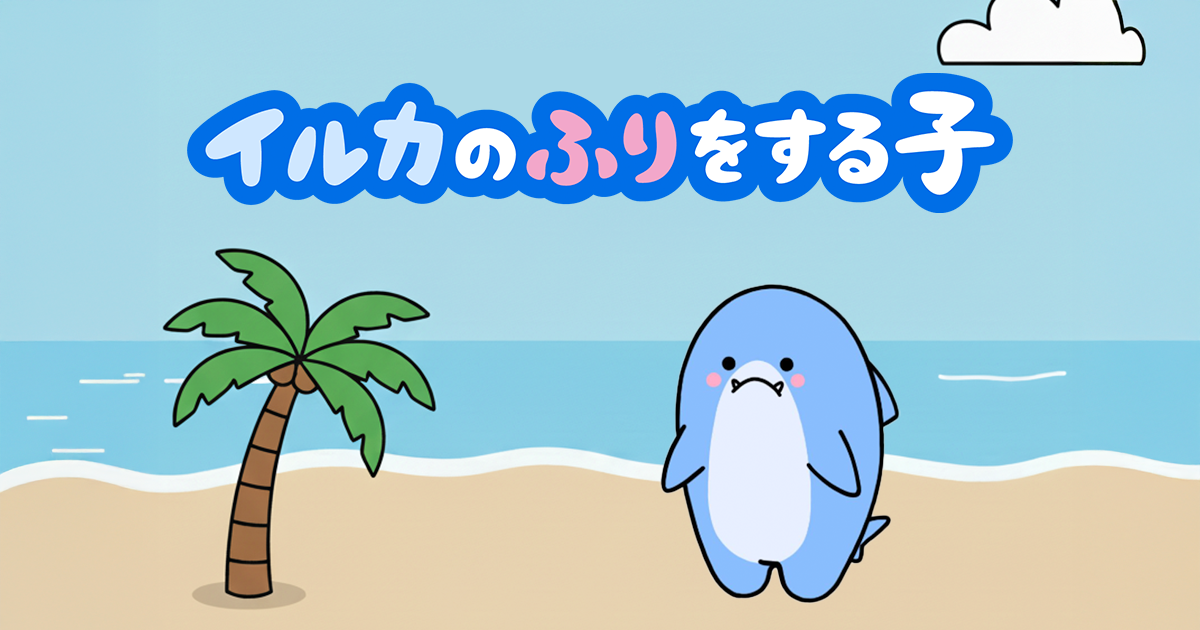
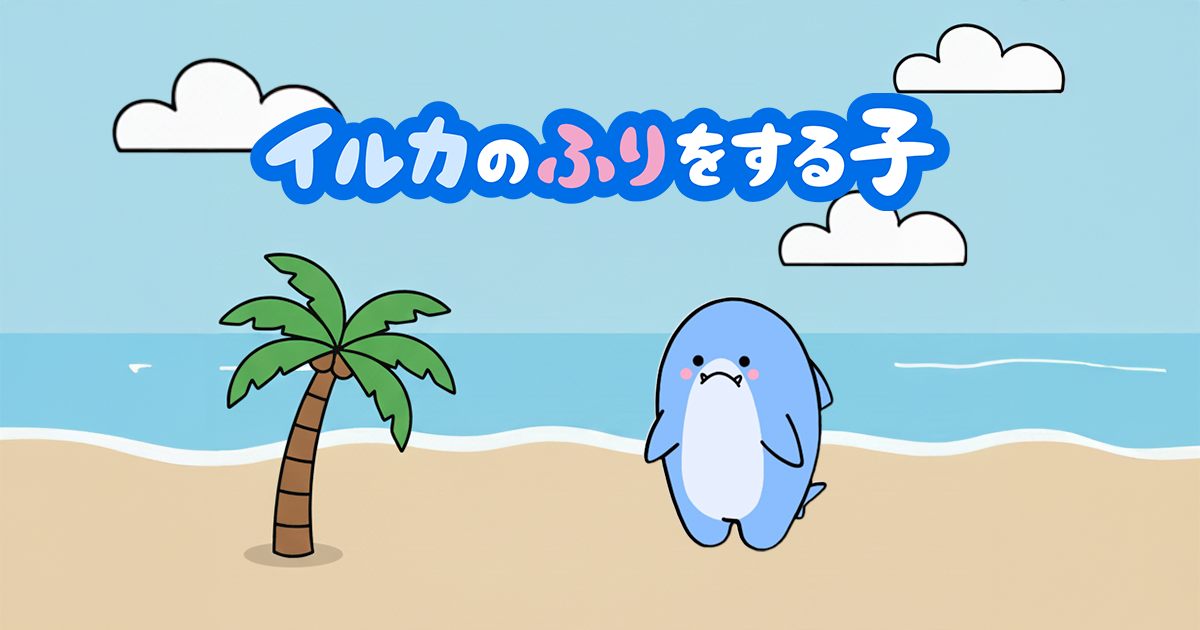
Add files via upload

Changed region(s): [[0.0, 0.3921, 1.0, 0.9651], [0.0925, 0.0, 0.9558, 0.4222]]

diff --git a/index.html b/index.html
@@ -12,35 +12,40 @@
 <link href="https://fonts.googleapis.com/css2?family=M+PLUS+Rounded+1c:wght@400;700;800;900&display=swap" rel="stylesheet">
 <style>
 :root{
-  --theme:#2A70C9;     /* 濃いめ水色（文字） */
-  --soft:#E6F5FF;      /* 薄い水色（ベタ背景） */
-  --card:#ffffff;
+  --fv-zoom: 100%;
+  --band:#d0e6ffff;     /* ご指定の濃いめの水色 */
+  --theme:#2A70C9;      /* 文字色（濃いめ水色系） */
+  --soft:#E8F6FF;       /* 上部の薄い水色 */
+  --card:#fff;
 }
+*{box-sizing:border-box}
 html,body{margin:0}
 body{
   font-family:'M PLUS Rounded 1c', -apple-system,BlinkMacSystemFont,'Helvetica Neue',Arial,'Noto Sans JP',sans-serif;
   background:var(--soft);
-  color:#284059;
+  color:#203246;
 }
 
 /* ===== First View ===== */
-.fv{min-height:100svh; position:relative; overflow:hidden; display:grid; place-items:center;}
-.fv .fv-bg{position:absolute; inset:0; width:100%; height:100%; object-fit:cover; object-position:center;}
-.fv-fade{position:absolute; inset:auto 0 0 0; height:22vh; background:linear-gradient(to bottom, rgba(230,245,255,0) 0%, var(--soft) 85%);}
-.fv-inner{position:relative; z-index:1;}
-.logo{width:min(86vw,560px); height:auto; filter:drop-shadow(0 4px 0 rgba(0,0,0,.12));}
+.fv{
+  min-height: 100svh;
+  position: relative;
+  overflow: hidden;
+  display: grid;
+  place-items: center;
+  background: url('assets/PPG.png') center / var(--fv-zoom) no-repeat;
+}
+.fv-fade{position:absolute; inset:auto 0 0 0; height:20vh; background:linear-gradient(to bottom, rgba(232,246,255,0) 0%, var(--soft) 85%);}
 
-/* ===== main sections ===== */
+/* ===== main ===== */
 .container{max-width:1080px; margin:0 auto; padding:0 20px;}
 .section{padding:48px 0;}
 
-/* Profile text */
+/* Profile */
 .profile{text-align:center; color:var(--theme);}
 .profile h2{margin:0 0 14px; font-size:clamp(22px,3vw,34px); font-weight:900;}
-.profile p{margin:8px 0; font-size:clamp(15px,1.9vw,20px); font-weight:700; letter-spacing:.02em; line-height:1.9;}
+.profile p{margin:10px 0; font-size:clamp(15px,1.9vw,20px); font-weight:700; letter-spacing:.02em; line-height:1.9;}
 .profile .space{height:16px;}
-
-/* Mini profile pills — smaller */
 .pill-list{display:flex; flex-direction:column; gap:16px; margin-top:8px;}
 .pill{
   background:var(--card);
@@ -54,7 +59,11 @@ body{
   font-size:clamp(16px,1.7vw,20px);
 }
 
-/* SNS cards */
+/* ===== Band (below クセ...) ===== */
+.band{width:100%; background:var(--band);}
+.band .section{padding:56px 0;}
+
+/* SNS */
 .sns h3{text-align:center; color:#1e69c0; margin:0 0 6px; font-size:clamp(18px,2.2vw,22px); font-weight:900;}
 .sns-note{text-align:center; color:#6b86ad; font-size:13px; margin-bottom:16px;}
 .sns-grid{display:grid; grid-template-columns:repeat(3, minmax(220px,1fr)); gap:18px;}
@@ -65,8 +74,8 @@ body{
 
 /* Contact */
 .contact{text-align:center;}
-.contact .box{display:inline-block; background:#fff; border-radius:16px; box-shadow:0 10px 24px rgba(0,0,0,.08); padding:18px 22px;}
-.contact a{display:inline-block; margin-top:8px; background:var(--theme); color:#fff; text-decoration:none; border-radius:999px; padding:10px 18px; font-weight:800; box-shadow:0 6px 16px rgba(0,0,0,.16);}
+.contact .box{display:inline-block; background:#fff; border-radius:16px; box-shadow:0 10px 24px rgba(0,0,0,.08); padding:20px 24px;}
+.contact a{display:inline-block; margin-top:10px; background:var(--theme); color:#fff; text-decoration:none; border-radius:999px; padding:10px 18px; font-weight:800; box-shadow:0 6px 16px rgba(0,0,0,.16);}
 
 /* Footer */
 .footer{text-align:center; color:#354d6e; padding:32px 0; font-size:13px;}
@@ -78,65 +87,68 @@ body{
 
 <!-- First View -->
 <section class="fv" aria-label="ファーストビュー">
-  <img class="fv-bg" src="assets/PPG.png" alt="背景" />
-  <div class="fv-inner">
-    <img class="logo" src="assets/logo.png" alt="イルカのふりをする子 ロゴ" />
-  </div>
   <div class="fv-fade" aria-hidden="true"></div>
 </section>
 
-<main class="container">
-  <!-- Profile -->
-  <section class="section profile" id="profile">
-    <h2>イルカのふりをする子って？</h2>
-    <p>本当はサメだけど、やさしいイルカになりたくて“フリ”してます。</p>
-    <p>ふわふわ水色ボディに小さな牙と背びれが、<br>ほんの少しだけ本性をのぞかせる…？</p>
-    <p>気配り上手で空回りもしがち。</p>
-    <p>でも豆腐が好きで、尾びれをフリフリごまかす、</p>
-    <p>不器用で愛しい存在です。</p>
-    <div class="space"></div>
-    <div class="pill-list">
-      <div class="pill"><b>大好き</b>：豆腐</div>
-      <div class="pill"><b>性格</b>：がんばり屋／気配り上手（でも空回りしがち...）</div>
-      <div class="pill"><b>特長</b>：歯はぎこちない八重歯</div>
-      <div class="pill"><b>日常</b>：イルカのみんなに、サメと疑われないように普段は牙を隠しているよ！</div>
-      <div class="pill"><b>クセ</b>：ドキッとすると、無意識に尾びれをフリフリしてごまかしちゃうの...</div>
-    </div>
-  </section>
+<main>
+  <div class="container">
+    <!-- Profile -->
+    <section class="section profile" id="profile">
+      <h2>イルカのふりをする子って？</h2>
+      <p>本当はサメだけど、やさしいイルカになりたくて“フリ”してます。</p>
+      <p>ふわふわ水色ボディに小さな牙と背びれが、<br>ほんの少しだけ本性をのぞかせる…？</p>
+      <p>気配り上手で空回りもしがち。</p>
+      <p>でも豆腐が好きで、尾びれをフリフリごまかす、</p>
+      <p>不器用で愛しい存在です。</p>
+      <div class="space"></div>
+      <div class="pill-list">
+        <div class="pill"><b>大好き</b>：豆腐</div>
+        <div class="pill"><b>性格</b>：がんばり屋／気配り上手（でも空回りしがち...）</div>
+        <div class="pill"><b>特長</b>：歯はぎこちない八重歯</div>
+        <div class="pill"><b>日常</b>：イルカのみんなに、サメと疑われないように普段は牙を隠しているよ！</div>
+        <div class="pill"><b>クセ</b>：ドキッとすると、無意識に尾びれをフリフリしてごまかしちゃうの...</div>
+      </div>
+    </section>
+  </div>
 
-  <!-- SNS -->
-  <section class="section sns" id="sns">
-    <h3>公式SNS</h3>
-    <p class="sns-note">たくさんコメントしてくれると嬉しいの〜！</p>
-    <div class="sns-grid">
-      <a class="sns-card" href="https://www.tiktok.com/@irukanofuriwosurusame" target="_blank" rel="noopener" aria-label="TikTok">
-        <svg class="sns-logo" viewBox="0 0 64 64" xmlns="http://www.w3.org/2000/svg" role="img"><circle cx="32" cy="32" r="32" fill="#000"/><path d="M41 24.5c2.5 1.9 5 2.9 7.6 3v6.1c-3.2-.2-6.1-1.3-8.8-3.3v9.4c0 6.6-5.4 11.3-12 11.3-3 0-5.8-1-7.9-2.8a10 10 0 0 1 8.6-17c1 0 2 .2 3 .5v6.4a4.5 4.5 0 0 0-3-.9 4.7 4.7 0 0 0-4.6 4.8c0 2.7 2.1 4.7 5 4.7a5.6 5.6 0 0 0 5.8-5.6V12h6.3c.4 4.9 2.8 9 7 12.5z" fill="#fff"/></svg>
-        <div class="sns-title">TikTok</div>
-      </a>
-      <a class="sns-card" href="https://www.youtube.com/@%E3%82%A4%E3%83%AB%E3%82%AB%E3%81%AE%E3%83%95%E3%83%AA%E3%82%92%E3%81%99%E3%82%8B%E5%AD%90" target="_blank" rel="noopener" aria-label="YouTube">
-        <svg class="sns-logo" viewBox="0 0 64 64" xmlns="http://www.w3.org/2000/svg" role="img"><rect x="6" y="14" width="52" height="36" rx="10" fill="#FF0000"/><polygon points="28,22 28,42 46,32" fill="#fff"/></svg>
-        <div class="sns-title">YouTube</div>
-      </a>
-      <a class="sns-card" href="https://www.instagram.com/irukanofuriwosurusame/" target="_blank" rel="noopener" aria-label="Instagram">
-        <svg class="sns-logo" viewBox="0 0 64 64" xmlns="http://www.w3.org/2000/svg" role="img">
-          <defs><linearGradient id="igG" x1="0" x2="1" y1="1" y2="0"><stop offset="0" stop-color="#FEDA75"/><stop offset="0.3" stop-color="#D62976"/><stop offset="0.6" stop-color="#962FBF"/><stop offset="1" stop-color="#4F5BD5"/></linearGradient></defs>
-          <rect x="6" y="6" width="52" height="52" rx="14" fill="url(#igG)"/><circle cx="32" cy="32" r="12" fill="none" stroke="#fff" stroke-width="6"/><circle cx="44" cy="20" r="4" fill="#fff"/>
-        </svg>
-        <div class="sns-title">Instagram</div>
-      </a>
-    </div>
-  </section>
+  <!-- Everything below here is the deeper blue band -->
+  <div class="band">
+    <div class="container">
+      <!-- SNS -->
+      <section class="section sns" id="sns">
+        <h3>公式SNS</h3>
+        <p class="sns-note">たくさんコメントしてくれると嬉しいの〜！</p>
+        <div class="sns-grid">
+          <a class="sns-card" href="https://www.tiktok.com/@irukanofuriwosurusame" target="_blank" rel="noopener" aria-label="TikTok">
+            <svg class="sns-logo" viewBox="0 0 64 64" xmlns="http://www.w3.org/2000/svg" role="img"><circle cx="32" cy="32" r="32" fill="#000"/><path d="M41 24.5c2.5 1.9 5 2.9 7.6 3v6.1c-3.2-.2-6.1-1.3-8.8-3.3v9.4c0 6.6-5.4 11.3-12 11.3-3 0-5.8-1-7.9-2.8a10 10 0 0 1 8.6-17c1 0 2 .2 3 .5v6.4a4.5 4.5 0 0 0-3-.9 4.7 4.7 0 0 0-4.6 4.8c0 2.7 2.1 4.7 5 4.7a5.6 5.6 0 0 0 5.8-5.6V12h6.3c.4 4.9 2.8 9 7 12.5z" fill="#fff"/></svg>
+            <div class="sns-title">TikTok</div>
+          </a>
+          <a class="sns-card" href="https://www.youtube.com/@%E3%82%A4%E3%83%AB%E3%82%AB%E3%81%AE%E3%83%95%E3%83%AA%E3%82%92%E3%81%99%E3%82%8B%E5%AD%90" target="_blank" rel="noopener" aria-label="YouTube">
+            <svg class="sns-logo" viewBox="0 0 64 64" xmlns="http://www.w3.org/2000/svg" role="img"><rect x="6" y="14" width="52" height="36" rx="10" fill="#FF0000"/><polygon points="28,22 28,42 46,32" fill="#fff"/></svg>
+            <div class="sns-title">YouTube</div>
+          </a>
+          <a class="sns-card" href="https://www.instagram.com/irukanofuriwosurusame/" target="_blank" rel="noopener" aria-label="Instagram">
+            <svg class="sns-logo" viewBox="0 0 64 64" xmlns="http://www.w3.org/2000/svg" role="img">
+              <defs><linearGradient id="igG" x1="0" x2="1" y1="1" y2="0"><stop offset="0" stop-color="#FEDA75"/><stop offset="0.3" stop-color="#D62976"/><stop offset="0.6" stop-color="#962FBF"/><stop offset="1" stop-color="#4F5BD5"/></linearGradient></defs>
+              <rect x="6" y="6" width="52" height="52" rx="14" fill="url(#igG)"/><circle cx="32" cy="32" r="12" fill="none" stroke="#fff" stroke-width="6"/><circle cx="44" cy="20" r="4" fill="#fff"/>
+            </svg>
+            <div class="sns-title">Instagram</div>
+          </a>
+        </div>
+      </section>
 
-  <!-- Contact -->
-  <section class="section contact" id="contact">
-    <div class="box">
-      <h3>お問い合わせ</h3>
-      <p>おしごと・コラボのご相談はお気軽にどうぞ</p>
-      <a href="mailto:irukanofuriwosurusame@gmail.com">メールする</a>
-    </div>
-  </section>
+      <!-- Contact -->
+      <section class="section contact" id="contact">
+        <div class="box">
+          <h3>お問い合わせ</h3>
+          <p>おしごと・コラボのご相談はお気軽にどうぞ</p>
+          <a href="mailto:irukanofuriwosurusame@gmail.com">メールする</a>
+        </div>
+      </section>
 
-  <section class="footer">© <span id="y"></span> イルカのふりをする子</section>
+      <section class="footer">© <span id="y"></span> イルカのふりをする子</section>
+    </div>
+  </div>
 </main>
 
 <script>document.getElementById('y').textContent=new Date().getFullYear()</script>
